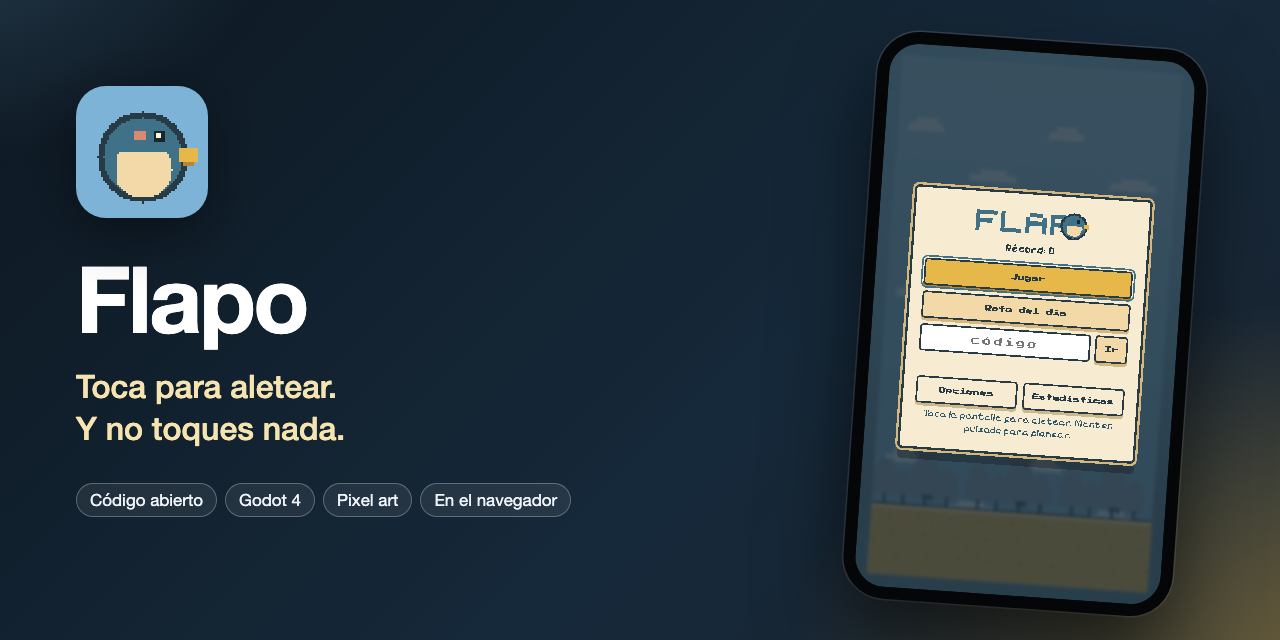
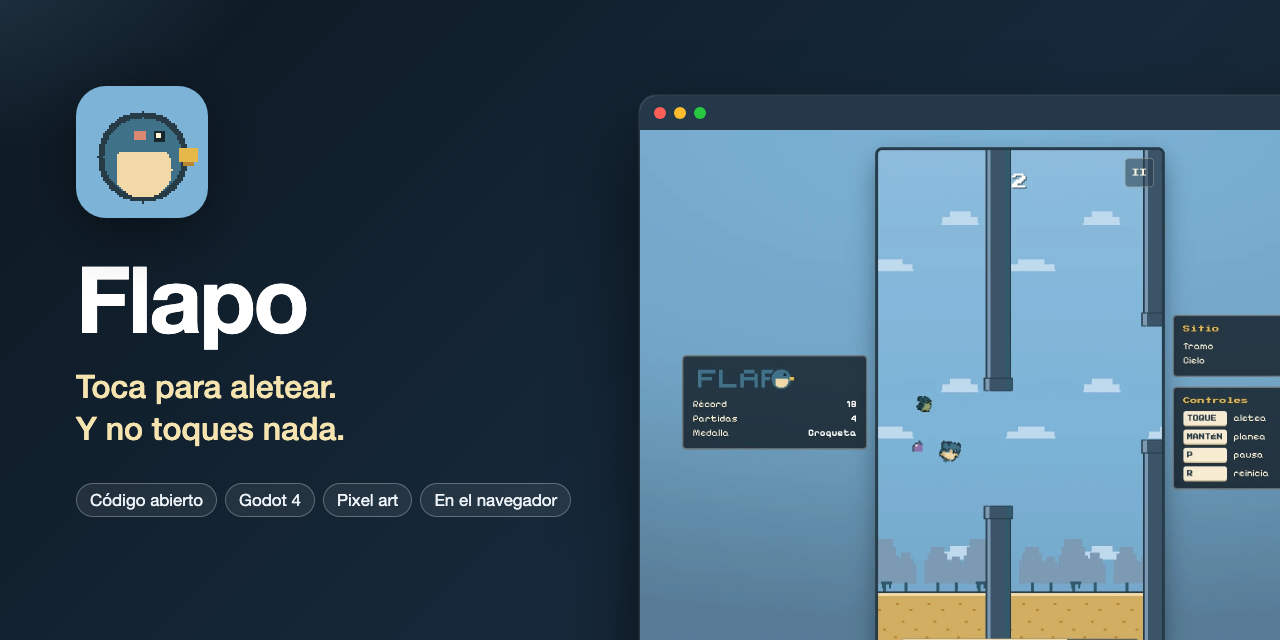
docs(readme): portada con una partida en el navegador
Cambia la captura del menú por una partida en marcha en la versión web y la
enmarca en una ventana de navegador.

diff --git a/docs/cover/cover.html b/docs/cover/cover.html
@@ -2,8 +2,8 @@
 <html lang="es">
 <head>
 <meta charset="utf-8">
-<!-- Portada del repositorio / social preview de GitHub (1280x640): icono, nombre y el juego en un
-     móvil. La genera tools/hacer_portada.sh en cover.png. La carpeta lleva .gdignore para que Godot
+<!-- Portada del repositorio / social preview de GitHub (1280x640): icono, nombre y una partida en
+     el navegador. La genera tools/hacer_portada.sh en cover.png. La carpeta lleva .gdignore para que Godot
      no importe estas imágenes ni las meta en el build. -->
 <style>
   * { box-sizing: border-box; margin: 0; }
@@ -16,7 +16,7 @@
       radial-gradient(700px 500px at -10% -20%, rgba(120, 176, 216, .30), transparent 60%),
       linear-gradient(135deg, #0d1822 0%, #16293a 60%, #1a2430 100%);
   }
-  .brand { position: absolute; left: 76px; top: 86px; width: 640px; }
+  .brand { position: absolute; left: 76px; top: 86px; width: 540px; }
   .icon {
     width: 132px; height: 132px; display: block; border-radius: 30px; image-rendering: pixelated;
     filter: drop-shadow(0 14px 28px rgba(0, 0, 0, .45));
@@ -25,13 +25,15 @@
   .tag { font-size: 32px; line-height: 1.3; margin-top: 22px; color: #f5e3b0; font-weight: 500; }
   .chips { display: flex; flex-wrap: nowrap; gap: 8px; margin-top: 34px; white-space: nowrap; }
   .chip { font-size: 17px; padding: 6px 13px; border-radius: 999px; border: 1.5px solid rgba(255,255,255,.28); background: rgba(255,255,255,.07); color: #eef4f9; }
-  /* Marco de móvil: el juego es vertical (288x512). */
+  /* Ventana del navegador; la captura se recorta por los lados para centrar el juego. */
   .shot {
-    position: absolute; left: 860px; top: 40px; width: 330px; border-radius: 42px; overflow: hidden;
-    padding: 12px; background: #050607; transform: rotate(4deg);
+    position: absolute; left: 640px; top: 96px; width: 760px; border-radius: 16px; overflow: hidden;
     box-shadow: 0 40px 80px rgba(0, 0, 0, .6), 0 0 0 1.5px rgba(255, 255, 255, .14);
+    background: #6f9cc2;
   }
-  .shot img { display: block; width: 100%; border-radius: 30px; image-rendering: pixelated; }
+  .bar { height: 34px; display: flex; align-items: center; gap: 8px; padding: 0 14px; background: #24384a; }
+  .bar i { width: 12px; height: 12px; border-radius: 50%; display: block; }
+  .shot img { display: block; width: 1000px; margin-left: -120px; }
 </style>
 </head>
 <body>
@@ -44,7 +46,8 @@
     </div>
   </div>
   <div class="shot">
-    <img src="screenshot.png" alt="Flapo">
+    <div class="bar"><i style="background:#ff5f57"></i><i style="background:#febc2e"></i><i style="background:#28c840"></i></div>
+    <img src="screenshot.jpg" alt="Flapo">
   </div>
 </body>
 </html>
